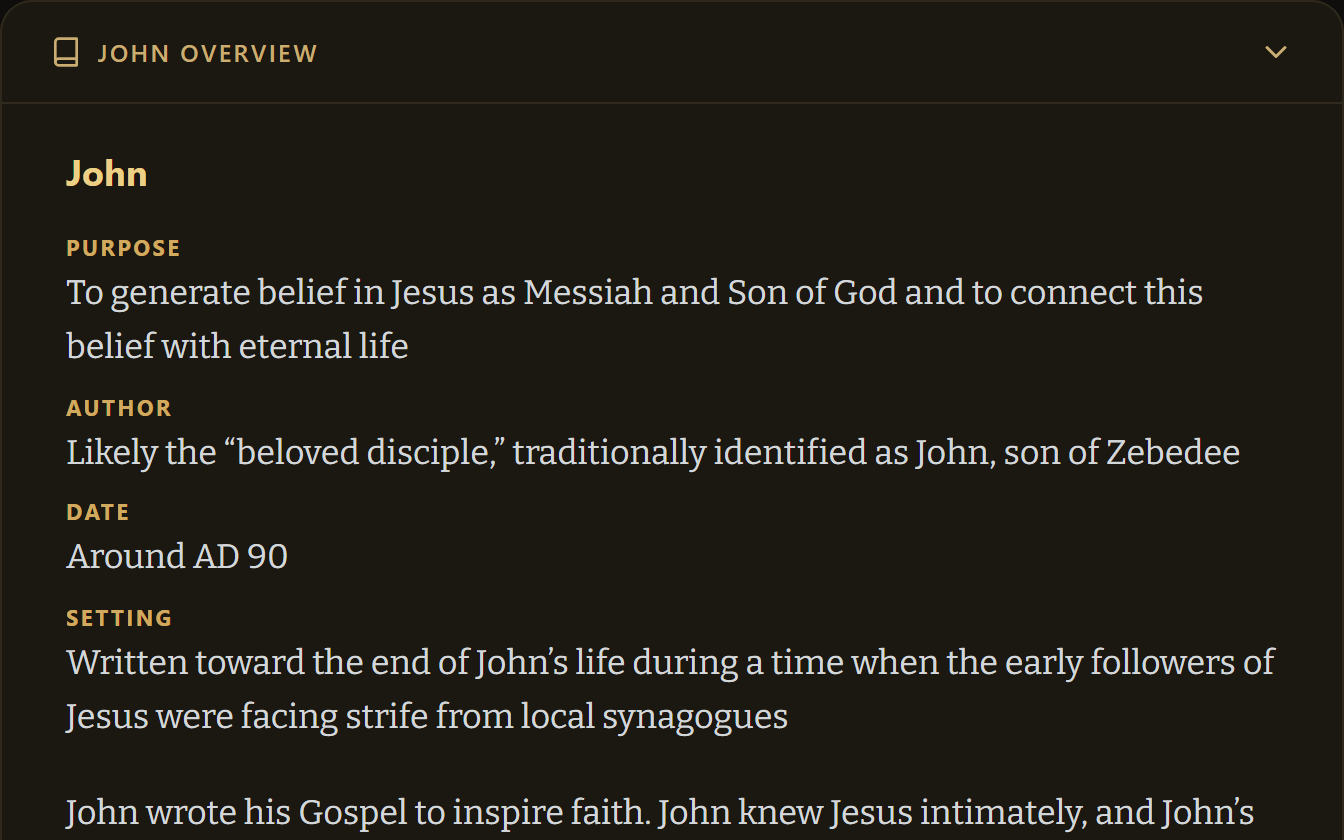
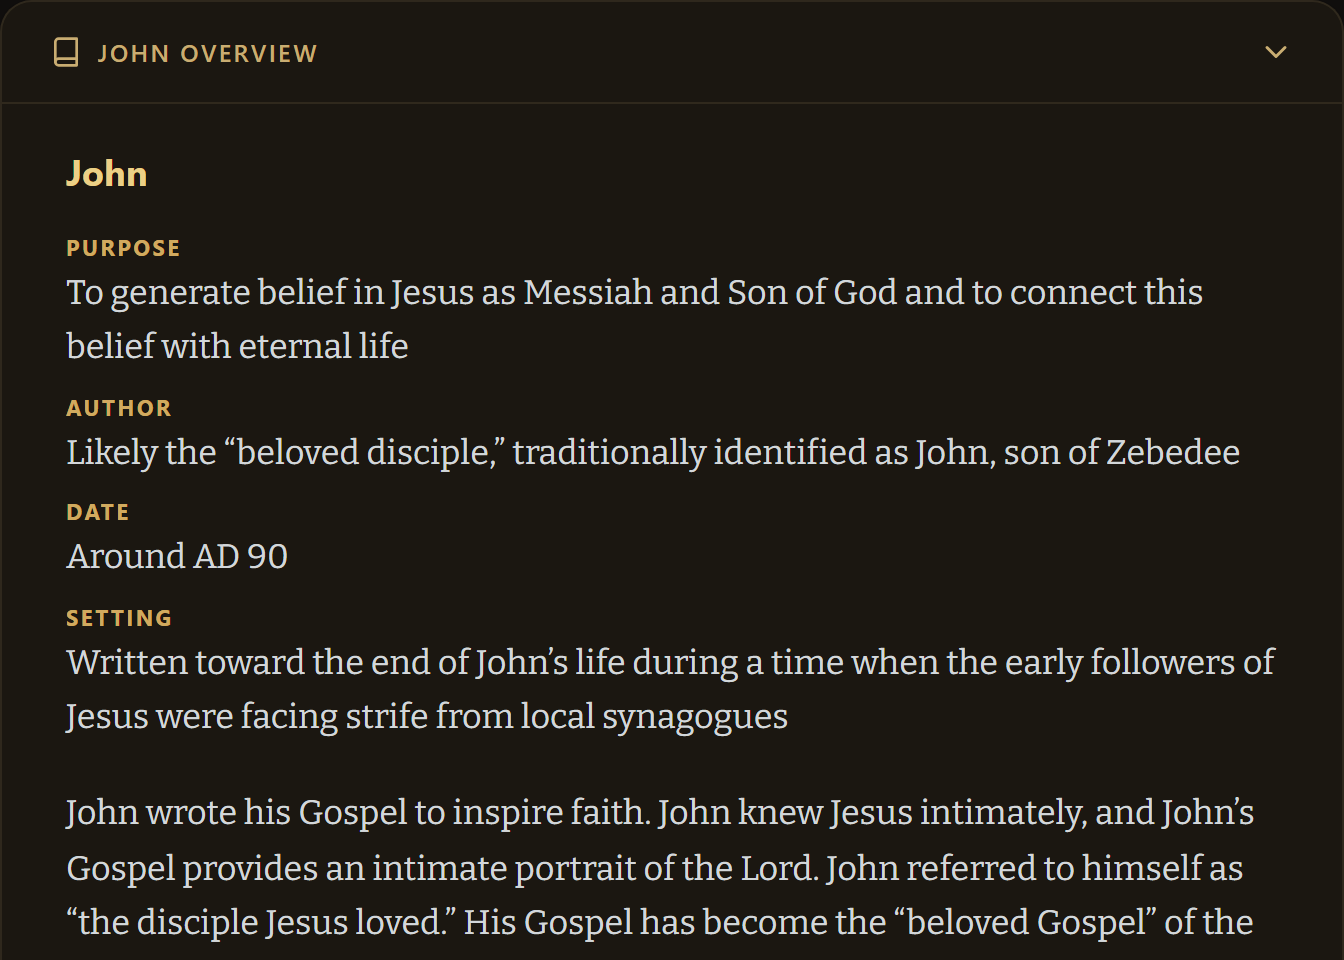
Landing: one tile for the whole verse sheet, and taller tiles throughout
The montage is back beside the bullets, six tiles to six bullets, and
the word study folds into the verse-tools tile rather than taking one of
its own: the picture now runs from the reference down through the tools
and the two collapsed sections to Original words with a word tapped —
its partner lit in the other line and its parsing, Strong's number and
definition underneath. The shot moves to John 1:1, because the word it
taps has to be in the verse and 1:4 has no Word in it.

The tile aspect goes from 16:10 to 1.4. Every component here is a fixed
width — a sheet is capped at 42rem whatever the viewport does — so the
only way a tile can show more of one is a taller window over it. At
16:10 they all stopped mid-feature: mid-sentence in the dictionary,
mid-verse in the search results, and short of the definition in the
sheet, which had to skip its own reference line to reach it. 1.4 buys
about 14% on all six at once and the sheet keeps both ends.

The quiz needed its crop turned around. Anchored at the top, the taller
window ran off the end of the quiz and photographed the site footer, so
the tile finished on a row of nav links; it now anchors to the quiz's
own footer and takes its height upward, which brings the progress bar
and the question type in at the top instead.

The bullets spread to fill their column rather than sitting at a fixed
spacing, so the list ends level with the last row of tiles whatever
[…]

diff --git a/src/app/feature-montage.tsx b/src/app/feature-montage.tsx
@@ -1,70 +1,57 @@
 import Image from "next/image";
 
 /**
- * The pictures under the "What's in it" list, following it in roughly its own
- * order. They were a narrow column beside the list, two tiles to about 235px:
- * at that size a screenshot of a full reading interface is a grey smudge with
- * the shape of a screenshot, which is worth nothing. They now take the page's
- * full width, so a tile is wide enough that what it shows can be read.
- *
- * That also ends the strict one-tile-per-bullet pairing, since nothing sits
- * beside its sentence any more: word study gets a picture of its own, because
- * the first bullet carries four separate features and tapping a word through
- * to its Greek is the one that has to be seen to be understood.
+ * The pictures beside the "What's in it" list: one per bullet, in the same
+ * order, so a tile and its sentence read as a pair.
  *
  * Each is a capture of the real component rather than an illustration of it —
  * scripts/shoot-features.mjs drives the app and shoots them, and re-running it
  * is how they stay current. The intrinsic sizes below are what that script
- * emitted; they are the crop's own 16:10, not a resize.
+ * emitted; they are the crop's own 1.4, not a resize — change TILE_ASPECT
+ * there and every pair here has to be updated to match.
  */
 const TILES = [
   {
     src: "/landing/verse-tools.png",
     w: 1344,
-    h: 840,
-    alt: "The verse sheet open on John 1:4: highlight colours, Note and Copy, then study notes, cross-references and the Greek word by word",
-  },
-  {
-    src: "/landing/word-study.png",
-    w: 1344,
-    h: 840,
-    alt: "The opening of John 1:1 as two aligned lines, Greek above and English below, with one word tapped: its partner is highlighted in the other line and its lemma, transliteration, parsing, Strong's number and definition are shown underneath",
+    h: 960,
+    alt: "The verse sheet open on John 1:1: highlight colours, Note and Copy, collapsed study notes and cross-references, and the Greek and English as two aligned lines with one word tapped — its partner highlighted in the other line and its transliteration, parsing, Strong's number and definition shown underneath",
   },
   {
     src: "/landing/overview.png",
     w: 1344,
-    h: 840,
+    h: 960,
     alt: "The introduction to John, giving its purpose, author, date and setting",
   },
   {
     src: "/landing/dictionary.png",
     w: 1472,
-    h: 920,
+    h: 1051,
     alt: "The dictionary article on Bethlehem, its prose linked through to the people and places it names",
   },
   {
     src: "/landing/chapter-map.png",
     w: 1344,
-    h: 840,
+    h: 960,
     alt: "The map for John 2, marking Cana, Capernaum and Jerusalem around the Sea of Galilee",
   },
   {
     src: "/landing/search.png",
     w: 1024,
-    h: 640,
+    h: 731,
     alt: "A search for “living water” returning fourteen verses with the words highlighted",
   },
   {
     src: "/landing/quiz.png",
     w: 1416,
-    h: 885,
+    h: 1011,
     alt: "A comprehension question on the opening of John's Gospel with four answers to choose from",
   },
 ];
 
 export function FeatureMontage({ className = "" }: { className?: string }) {
   return (
-    <div className={`grid grid-cols-1 gap-4 sm:grid-cols-2 ${className}`}>
+    <div className={`grid grid-cols-2 gap-3 ${className}`}>
       {TILES.map((t) => (
         <Image
           key={t.src}
@@ -72,9 +59,10 @@ export function FeatureMontage({ className = "" }: { className?: string }) {
           alt={t.alt}
           width={t.w}
           height={t.h}
-          // Half of the 72rem column at full size, most of the viewport on a
-          // phone — where one tile per row beats two unreadable ones.
-          sizes="(min-width: 75rem) 544px, (min-width: 40rem) 47vw, 92vw"
+          // Two columns of a 36rem block on desktop, two columns of the
+          // viewport below it — never more than ~282px either way, so the
+          // browser is told that rather than left to assume full width.
+          sizes="(min-width: 40rem) 282px, 45vw"
           className="w-full rounded-[3px] border border-neutral-800 bg-neutral-900"
         />
       ))}

diff --git a/src/app/page.tsx b/src/app/page.tsx
@@ -202,13 +202,13 @@ export default function Home() {
       {/* Lower sections share the hero's wide container on desktop —
           heading left, content right — and stack vertically below md. */}
       <div className="mx-auto max-w-6xl px-6">
-        {/* What's in it — the list first, then the pictures full width under
-            it. They used to share the row, which capped a tile at about a
-            quarter of the page: big enough to see that it was a screenshot,
-            not big enough to see what of. Prose does not need the width and
-            screenshots do, so they stopped competing for it. */}
-        <section className="pb-16 pt-14">
-          <div className="max-w-[32rem]">
+        {/* What's in it — montage beside the list, kicker sitting over the
+            list. The split waits for lg: at md the container is only ~720px,
+            and half of that leaves the montage's two columns too narrow to
+            make out. Below lg the two stack, montage first. */}
+        <section className="pb-16 pt-14 lg:grid lg:grid-cols-[36rem_minmax(0,1fr)] lg:gap-10">
+          <FeatureMontage className="max-w-[36rem]" />
+          <div className="mt-8 flex max-w-[32rem] flex-col lg:mt-0">
             {/* Set like esv.org's section kicker (their `landing-copy-title`):
                 their sans at 13px/23px, weight 400, uppercase, 1px tracking, in
                 the muted gold #bfb391. Ours is the system sans, which is what
@@ -216,13 +216,18 @@ export default function Home() {
             <h2 className="text-[13px] font-normal uppercase leading-[23px] tracking-[1px] text-[#bfb391]">
               What&rsquo;s in it
             </h2>
-            <ul className="mt-4 list-disc space-y-2.5 pl-5 font-scripture text-base font-normal leading-relaxed tracking-[0.0156em] text-neutral-300 marker:text-neutral-600">
+            {/* The bullets spread to fill the column rather than sitting at a
+                fixed spacing, so the list ends level with the last row of
+                tiles whatever height the montage happens to be. gap-5 is the
+                floor — below lg the column has no height to fill and that is
+                all they get. Set as a number, this would need re-tuning every
+                time a bullet rewraps or a tile's crop changes. */}
+            <ul className="mt-4 flex flex-1 list-disc flex-col justify-between gap-5 pl-5 font-scripture text-base font-normal leading-relaxed tracking-[0.0156em] text-neutral-300 marker:text-neutral-600">
               {features.map((f) => (
                 <li key={f.id}>{f.content}</li>
               ))}
             </ul>
           </div>
-          <FeatureMontage className="mt-10" />
         </section>
       </div>
 
